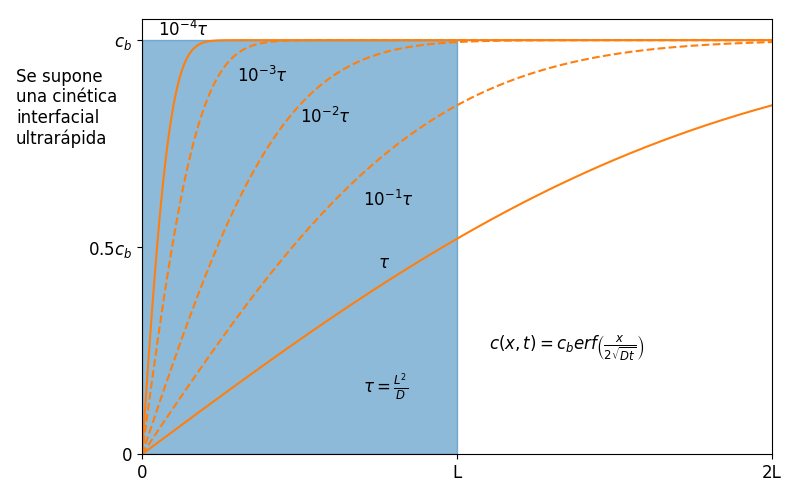
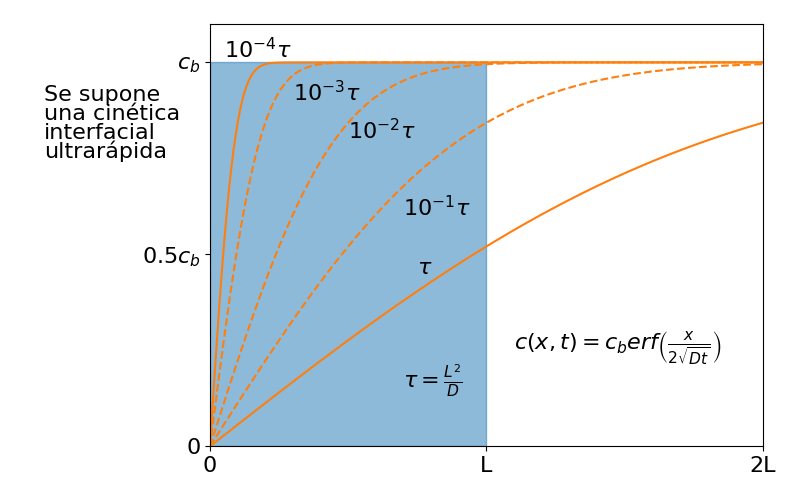
xia model and nmr viz

diff --git a/src/FastCharging/un/introduccion/xiafom_model/model.py b/src/FastCharging/un/introduccion/xiafom_model/model.py
@@ -9,7 +9,7 @@ from matplotlib.patches import Rectangle
 import numpy as np
 from scipy.special import erf
 
-plt.rcParams.update({"font.size": 12})
+plt.rcParams.update({"font.size": 16})
 
 xvals = np.linspace(0, 2, num=500)
 
@@ -27,7 +27,7 @@ ax.set_xticks([0, 1, 2], ["0", "L", "2L"])
 ax.set_yticks([0, 0.5, 1], [0, r"0.5$c_b$", r"$c_b$"])
 
 ax.set_xlim((0, 2))
-ax.set_ylim((0, 1.05))
+ax.set_ylim((0, 1.1))
 
 ax.text(1.1, 0.25, r"$c(x, t) = c_b erf\left(\frac{x}{2\sqrt{D t}}\right)$")
 ax.text(0.7, 0.15, r"$\tau = \frac{L^2}{D}$")
@@ -38,10 +38,10 @@ ax.text(0.5, 0.8, r"$10^{-2}\tau$")
 ax.text(0.7, 0.6, r"$10^{-1}\tau$")
 ax.text(0.75, 0.45, r"$\tau$")
 
-ax.text(-0.4, 0.9, "Se supone")
-ax.text(-0.4, 0.85, "una cinética")
-ax.text(-0.4, 0.8, "interfacial")
-ax.text(-0.4, 0.75, "ultrarápida")
+ax.text(-0.6, 0.9, "Se supone")
+ax.text(-0.6, 0.85, "una cinética")
+ax.text(-0.6, 0.8, "interfacial")
+ax.text(-0.6, 0.75, "ultrarápida")
 
 fig.tight_layout()
 fig.savefig("model.png")

diff --git a/src/Silicio/prediccion/resultados/nmr/viz.py b/src/Silicio/prediccion/resultados/nmr/viz.py
@@ -82,9 +82,9 @@ for circ in silicons + litios + rcuts[:3]:
 
 ax.plot([0.35, 3.0], [2.8, 2.8], color="tab:blue")
 
-ax.plot([-10 + rsi, -7.3 - rsi], [2.5, 2.5], color="tab:blue", alpha=0.5)
-ax.plot([rsi, 2.7 - rsi], [-7.5, -7.5], color="tab:blue", alpha=0.5)
-ax.plot([-10 + rsi, -7.3 - rsi], [-7.5, -7.5], color="tab:blue", alpha=0.5)
+ax.plot([-9.65 + rsi, -7. - rsi], [2.8, 2.8], color="tab:blue", alpha=0.5)
+ax.plot([0.35 + rsi, 3.0 - rsi], [-7.2, -7.2], color="tab:blue", alpha=0.5)
+ax.plot([-9.65 + rsi, -7. - rsi], [-7.2, -7.2], color="tab:blue", alpha=0.5)
 
 ax.set_xlim((-10, 10))
 ax.set_ylim((-10, 10))
